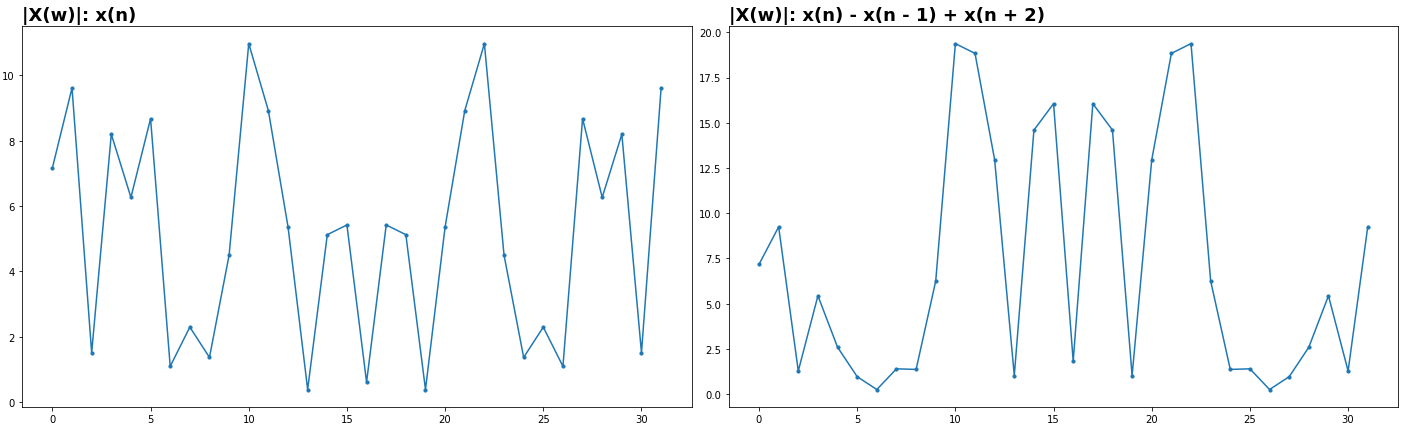
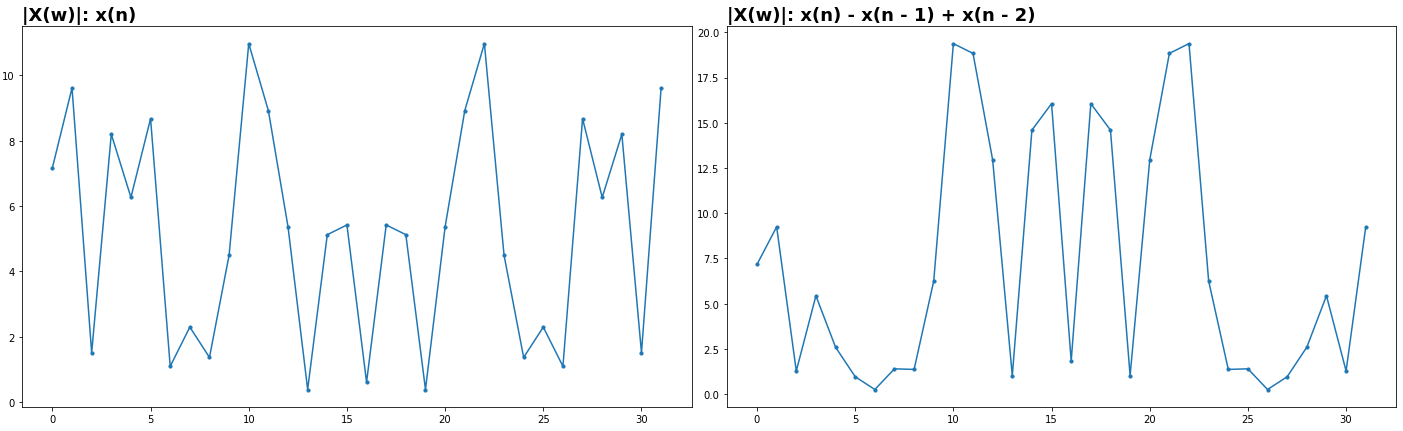
Answer to https://dsp.stackexchange.com/q/76636/50076

diff --git a/SignalProcessing/Q76636 - filters - Why is x(n) - x(n -  1) + x(n + 2) lowpass/main.py b/SignalProcessing/Q76636 - filters - Why is x(n) - x(n -  1) + x(n + 2) lowpass/main.py
@@ -51,4 +51,4 @@ x = x - np.roll(x, 1) + np.roll(x, 2)
 xf1 = np.fft.fft(x)
 
 plot_and_save(xf0, "|X(w)|: x(n)", "WGN0.png")
-plot_and_save(xf1, "|X(w)|: x(n) - x(n - 1) + x(n + 2)", "WGN1.png")
+plot_and_save(xf1, "|X(w)|: x(n) - x(n - 1) + x(n - 2)", "WGN1.png")
